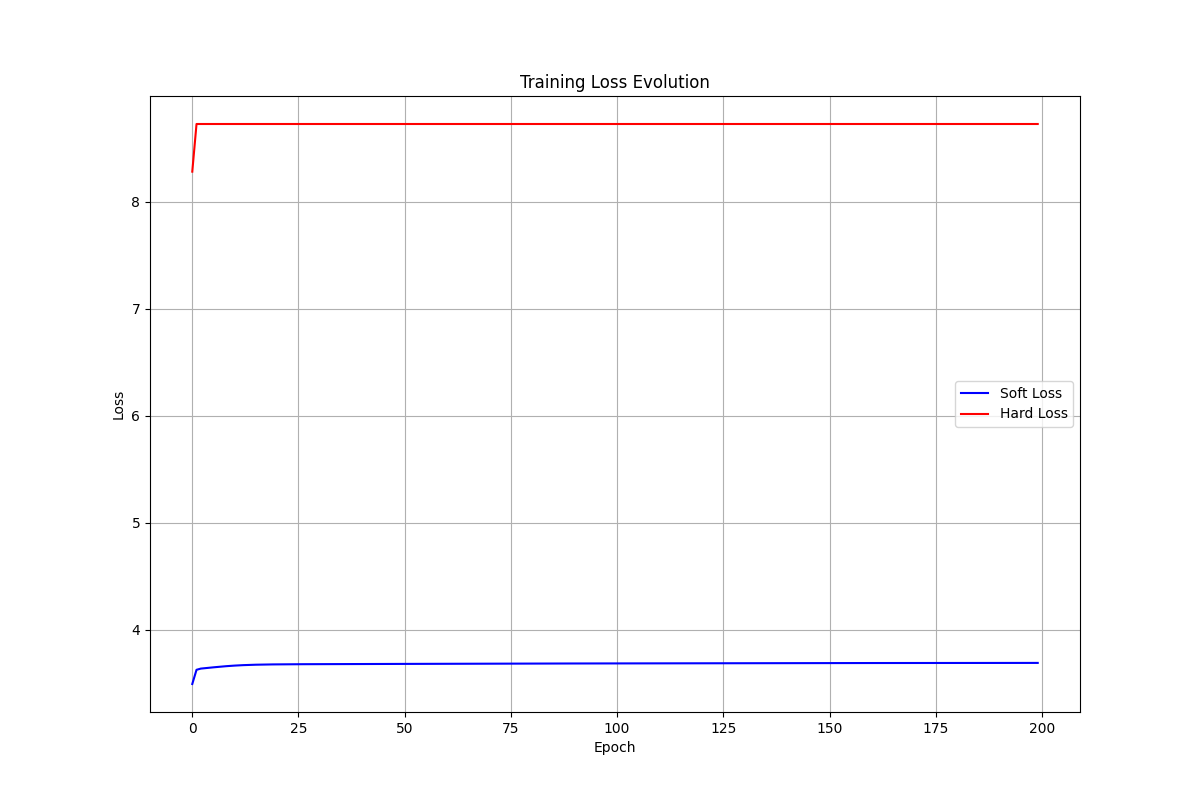
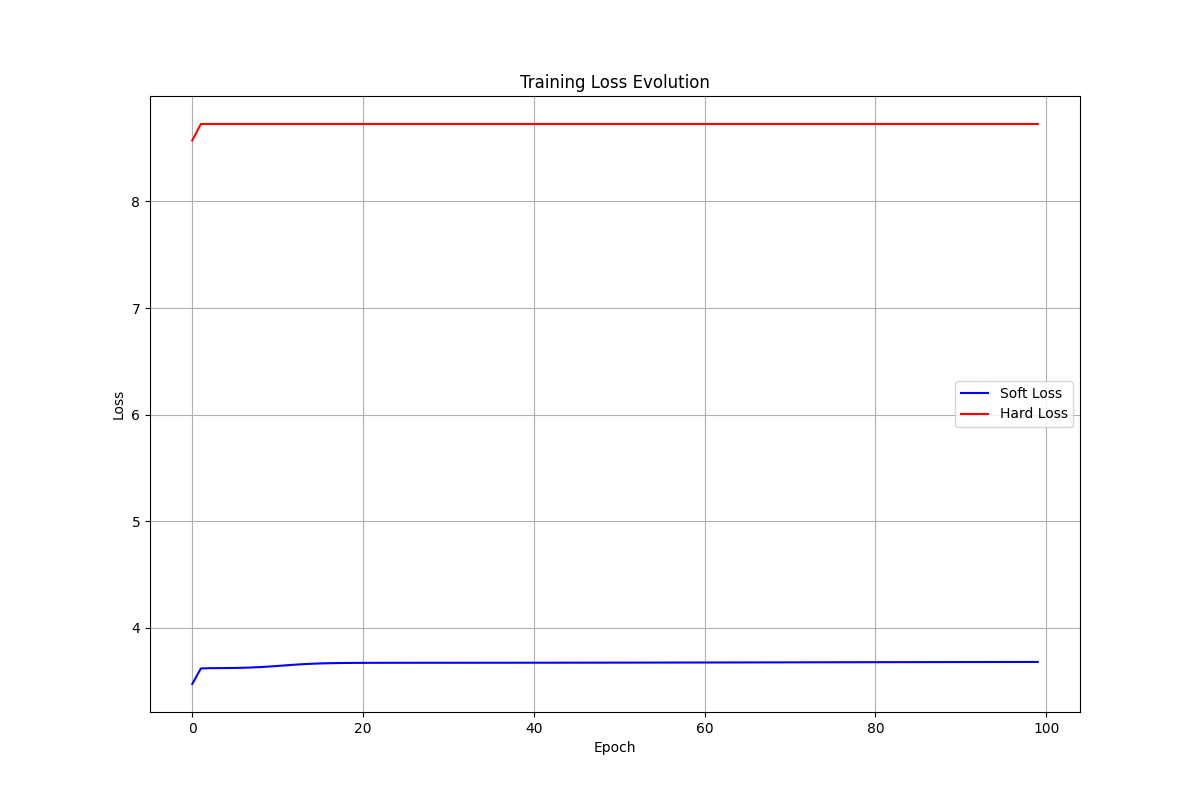
problem in prob dist for gates ?

diff --git a/train_optimized.py b/train_optimized.py
@@ -156,7 +156,7 @@ def evaluate_model(ca, test_configs, test_targets, n_samples=10, visualize=False
     print(f"Model accuracy: {accuracy:.2f}% ({correct}/{total})")
     return accuracy
 
-def train_gol_model(epochs=20, learning_rate=0.001, visualize=False, save_loss_plot=True):
+def train_gol_model(epochs=200, learning_rate=0.001, visualize=False, save_loss_plot=True):
     """Train a DiffLogic CA to learn Game of Life rules"""
     print("Generating training data...")
     configs, targets = generate_gol_training_data()
@@ -233,7 +233,7 @@ def train_gol_model(epochs=20, learning_rate=0.001, visualize=False, save_loss_p
 
 if __name__ == "__main__":
     parser = argparse.ArgumentParser(description='Train a DiffLogic CA to learn Game of Life rules')
-    parser.add_argument('--epochs', type=int, default=200, help='Number of training epochs')
+    parser.add_argument('--epochs', type=int, default=100, help='Number of training epochs')
     parser.add_argument('--lr', type=float, default=0.001, help='Learning rate')
     parser.add_argument('--visualize', action='store_true', help='Visualize evaluation results')
     parser.add_argument('--no-save-plot', action='store_false', dest='save_plot', help='Do not save loss plot')

diff --git a/src/lib.rs b/src/lib.rs
@@ -39,9 +39,9 @@ pub struct LogicGate {
 impl LogicGate {
     pub fn new(inputs: (usize, usize)) -> Self {
         // Initialize with a bias toward pass-through gates (A or B)
-        let mut probability = vec![0.01; 16];
-        probability[3] = 0.4; // Bias toward A
-        probability[5] = 0.4; // Bias toward B
+        let mut probability = vec![0.05; 16];
+        probability[3] = 0.1; // Bias toward A
+        probability[5] = 0.1; // Bias toward B
         
         LogicGate {
             op: LogicOp::A, // Default operation
